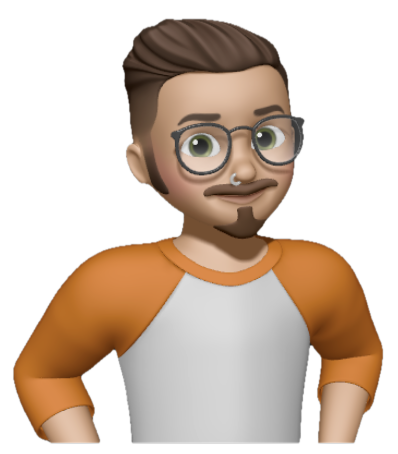
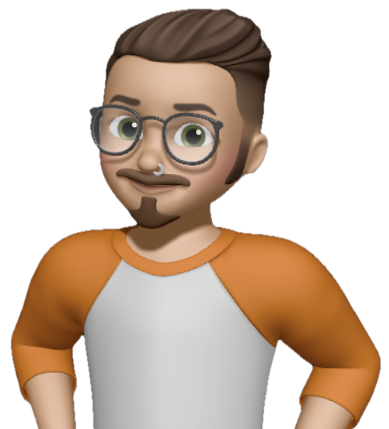
skills

diff --git a/portfolio.html b/portfolio.html
@@ -20,8 +20,8 @@
             <img src="./Images/NC.png" alt="logo de N.C" class="nc">
             <nav class="navbar">
                 <ul class="nav-link">
-                    <li><a href="#profil">Mon profil</a></li>
-                    <li><a href="#competences">Compétences</a></li>
+                    <li><a href="#aboutme">About me</a></li>
+                    <li><a href="#skills">Skills</a></li>
                     <li><a href="#parcours">Mon parcours</a></li>
                     <li><a href="#portfolio">Portfolio</a></li>
                     <li><a href="#contact">Contact</a></li>
@@ -41,6 +41,63 @@
                 </article>
                 <img src="./Images/guanaco.jpg" alt="photo en noir et blanc d'un guanaco"
                 class="guanaco">
+            </section>
+
+            <section class="aboutme" id="aboutme">
+                <img src="./Images/memoji2.png" alt="Memoji personnel" class="memoji">
+                <article class="texte">
+                    <h3>About me</h3>
+                    <p>Avec 10 ans d’expérience dans le service client et la gestion d’équipe, 
+                        j’ai pris la décision de réorienter ma carrière vers le développement web. 
+                        Actuellement en formation à l’école La Plateforme, je me consacre pleinement 
+                        à l’apprentissage.</p>
+                    <p>Au fil de mon parcours professionnel, j’ai su développer des compétences 
+                        solides en gestion du temps, en adaptation face aux imprévus, et en 
+                        résolution créative de problèmes. Mon sens de la communication et mon esprit 
+                        d’équipe me permettent de contribuer de manière efficace à la réussite des 
+                        projets sur lesquels je travaille.</p>
+                    <p>Trilingue en français, anglais et espagnol, je suis convaincu que ma maîtrise 
+                        des langues sera un véritable atout dans un environnement de travail 
+                        international.</p>
+                    <p>Je suis actuellement en recherche d’une alternance de 2 ans. Ce contrat 
+                        serait l’occasion idéale pour mettre en pratique mes connaissances tout en 
+                        continuant à progresser dans un cadre dynamique et stimulant.</p>
+                </article>
+            </section>
+
+            <section class="skills" id="skills">
+                <article class="hard">
+                    <h3>Hard skills</h3>
+                    <div class="images">
+                        <img src="./Images/Logos/figma-original.png" alt="logo Figma">
+                        <img src="./Images/Logos/html5-original.png" alt="logo HTML5">
+                        <img src="./Images/Logos/css3-original.png" alt="logo CSS3">
+                        <img src="./Images/Logos/github-original.png" alt="logo GitHub">
+                        <img src="./Images/Logos/swift-original.png" alt="logo Swift">
+                        <img src="./Images/Logos/python-original.png" alt="logo Python">
+                    </div>
+                </article>
+
+                <article class="soft">
+                    <h3>Soft skills</h3>
+                    <ul>
+                        <li>Autonomie</li>
+                        <li>Esprit d'équipe</li>
+                        <li>Créativité</li>
+                        <li>Adaptabilité</li>
+                        <li>Résolution de problèmes</li>
+                    </ul>
+                </article>
+
+                <article class="languages">
+                    <h3>Languages</h3>
+                    <ul>
+                        <li>Français : Langue maternelle</li>
+                        <li>Anglais : Capacité professionnelle complète</li>
+                        <li>Espagnol : Bilingue</li>
+                    </ul>
+                </article>
+
             </section>
         </main>
     </body>

diff --git a/portfolio.css b/portfolio.css
@@ -18,9 +18,11 @@
 
 h1, h2, h3, h4, h5, h6 {
     font-family: "Roboto mono";
+    color: var(--secondary-color);
 }
-p {
+p, ul li {
     font-family: "Montserrat";
+    color: var(--secondary-color);
 }
 
 /* Nav bar */
@@ -153,6 +155,74 @@ body {
                 }
             }
         }
+
+        .aboutme {
+            padding: 40px 48px;
+            display: flex;
+            flex-direction: row-reverse;
+            align-items: flex-start;
+            justify-content: space-evenly;
+
+            .memoji {
+                width: 200px;
+                border-radius: 50%;
+                object-fit: cover;
+                object-position: 50% 40%;
+                box-shadow: 0 3px 0 var(--primary-color);
+            }
+            .texte {
+                width: 60%;
+
+                h3 {
+                    padding-bottom: 8px;
+                    font-size: 15pt;
+                }
+                p {
+                    padding: 8px 0;
+                    text-align: justify;
+                }
+            }
+        }
+
+        .skills {
+            padding: 0 48px;
+            display: flex;
+            align-items: flex-start;
+            justify-content: space-between;
+
+            h3 {
+                padding: 16px 0;
+                font-size: 15pt;
+            }
+
+            .hard {
+                display: flex;
+                flex-direction: column;
+                
+                .images {
+                    display: flex;
+                    gap: 20px;                    
+                    img {
+                        width: 50px;
+                    }
+                }
+            }
+
+            .soft {
+                display: flex;
+                flex-direction: column;
+                align-items: flex-start;
+                ul li {
+                    list-style-position: inside;
+                    list-style-type: circle;
+                }
+            }
+
+            .languages {
+                display: flex;
+                flex-direction: column;
+            }
+        }
     }
 }
 /* Fin mon profil */
@@ -199,6 +269,28 @@ body {
                 margin-left: 0;
                 width: 100%;
                 height: 100vh;
+            }
+        }
+    }
+    body {
+        main {
+            .aboutme {
+                flex-direction: column;
+                align-items: center;
+
+                .texte {
+                    padding-top: 24px;
+                    width: 100%;
+                }
+            }
+            .skills {
+                display: flex;
+                flex-direction: column;
+                align-items: center;
+
+                .hard, .soft, .languages {
+                    align-items: center;
+                }
             }
         }
     }
